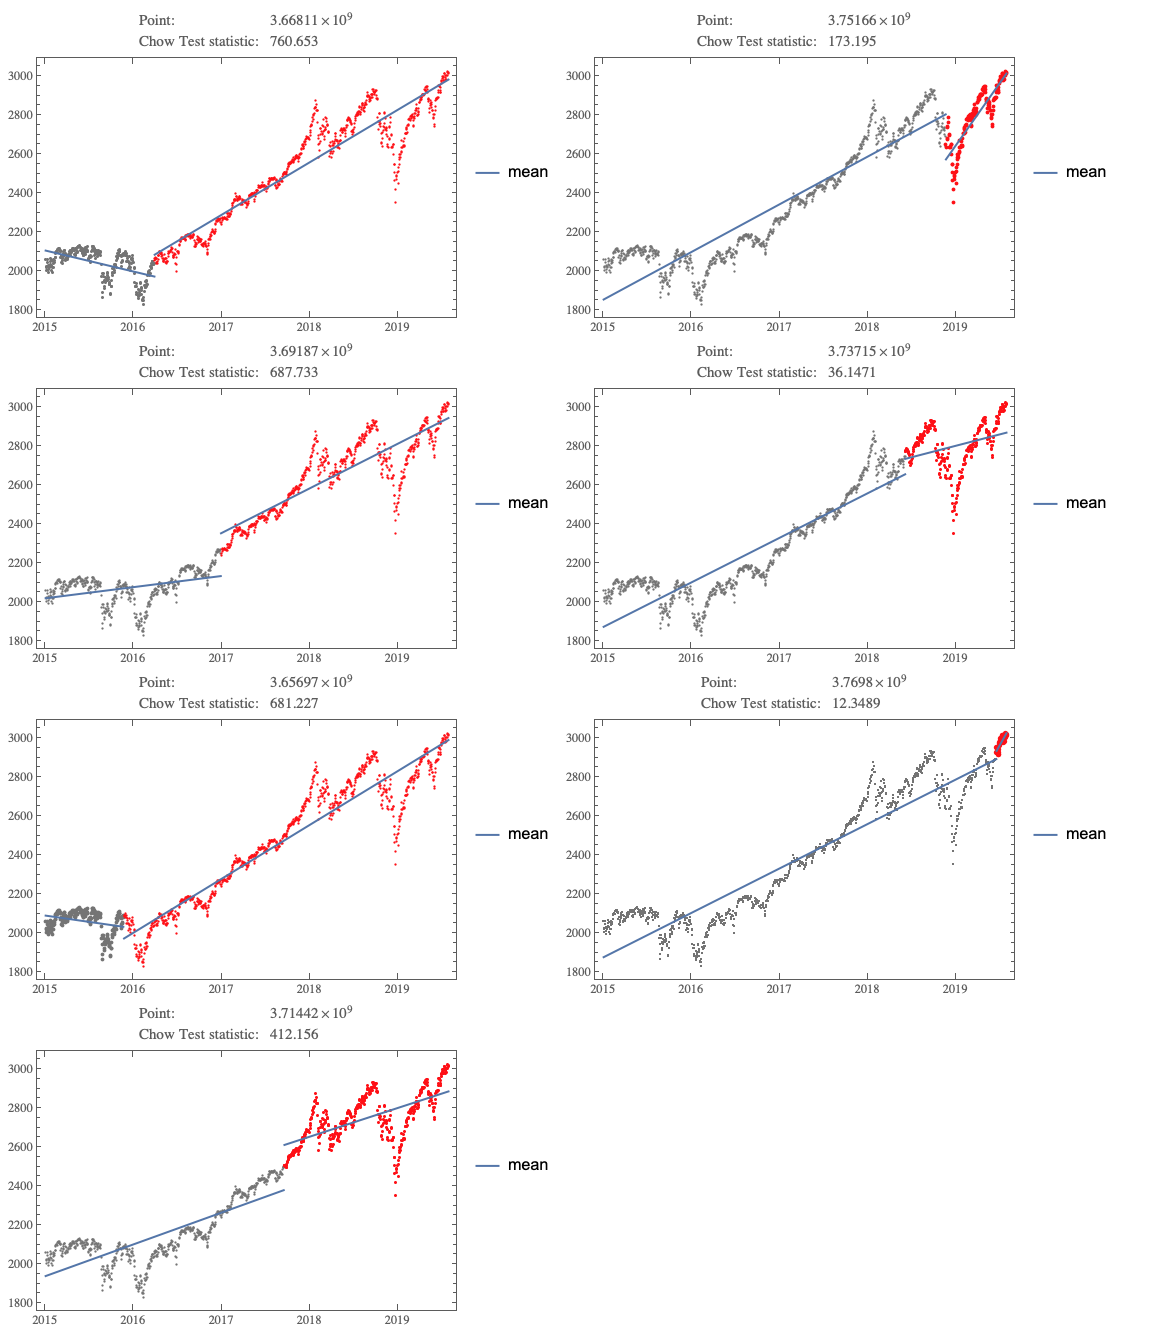
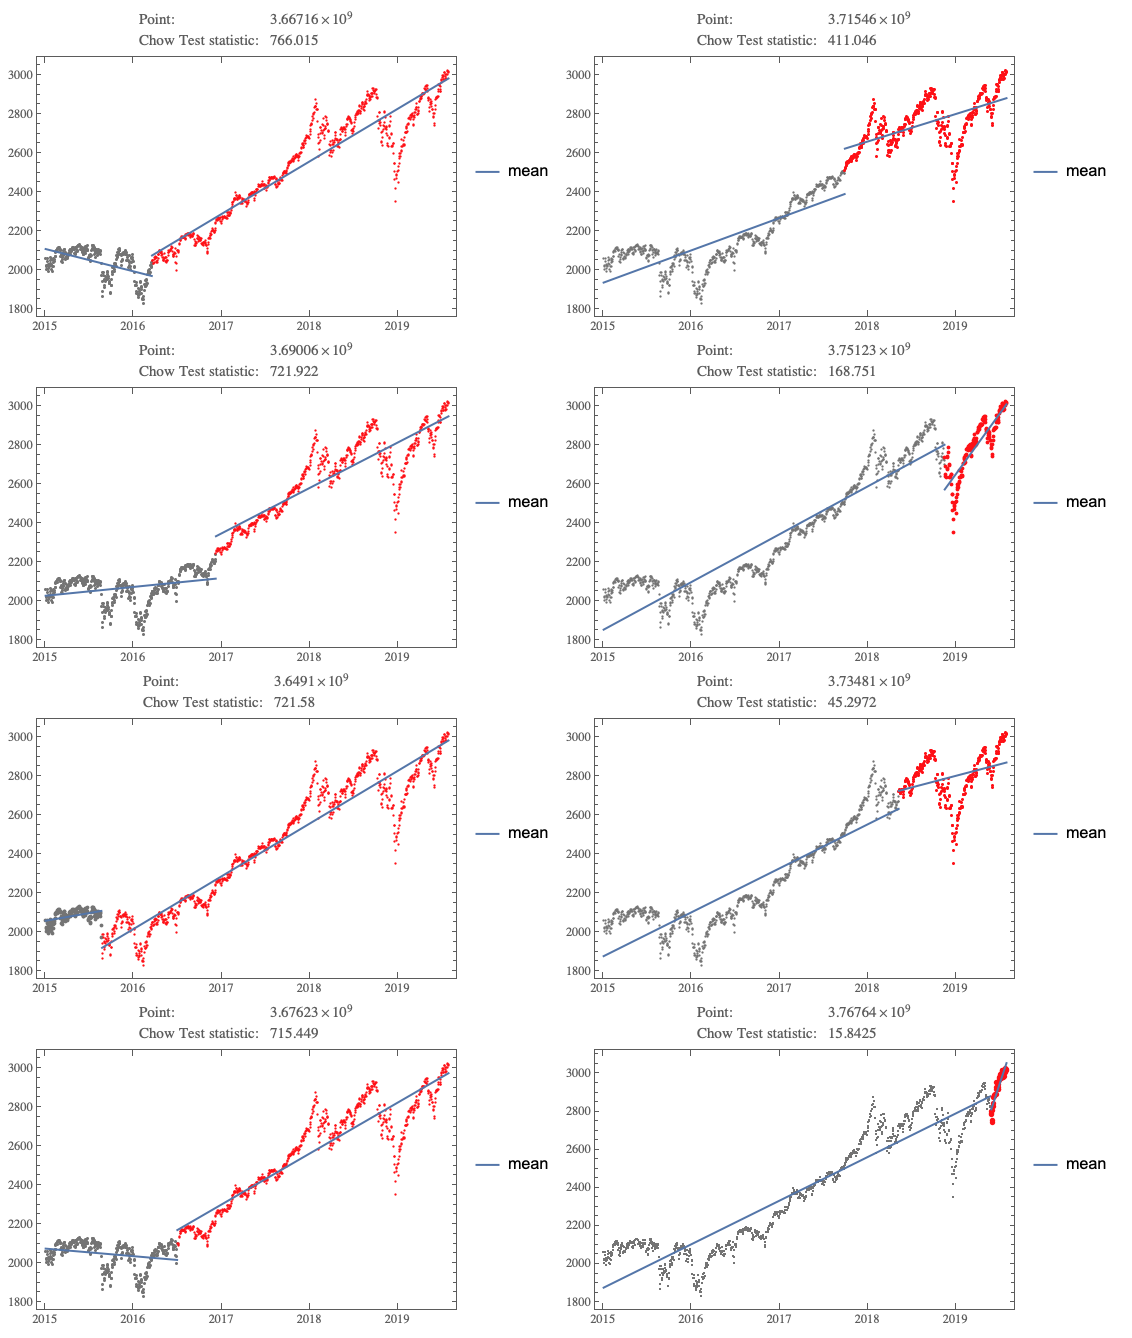
Better structural breaks with more knots.

diff --git a/MarkdownDocuments/Finding-all-structural-breaks-in-time-series.md b/MarkdownDocuments/Finding-all-structural-breaks-in-time-series.md
@@ -173,7 +173,7 @@ The computation below combines steps 2,3, and 4.
 
     qrObj =
       QRMonUnit[tsSP500]⟹
-       QRMonFindChowTestLocalMaxima["Knots" -> 20, 
+       QRMonFindChowTestLocalMaxima["Knots" -> 30, 
         "NearestWithOutliers" -> True, 
         "NumberOfProximityPoints" -> 5, "EchoPlots" -> True, 
         "DateListPlot" -> True, 
